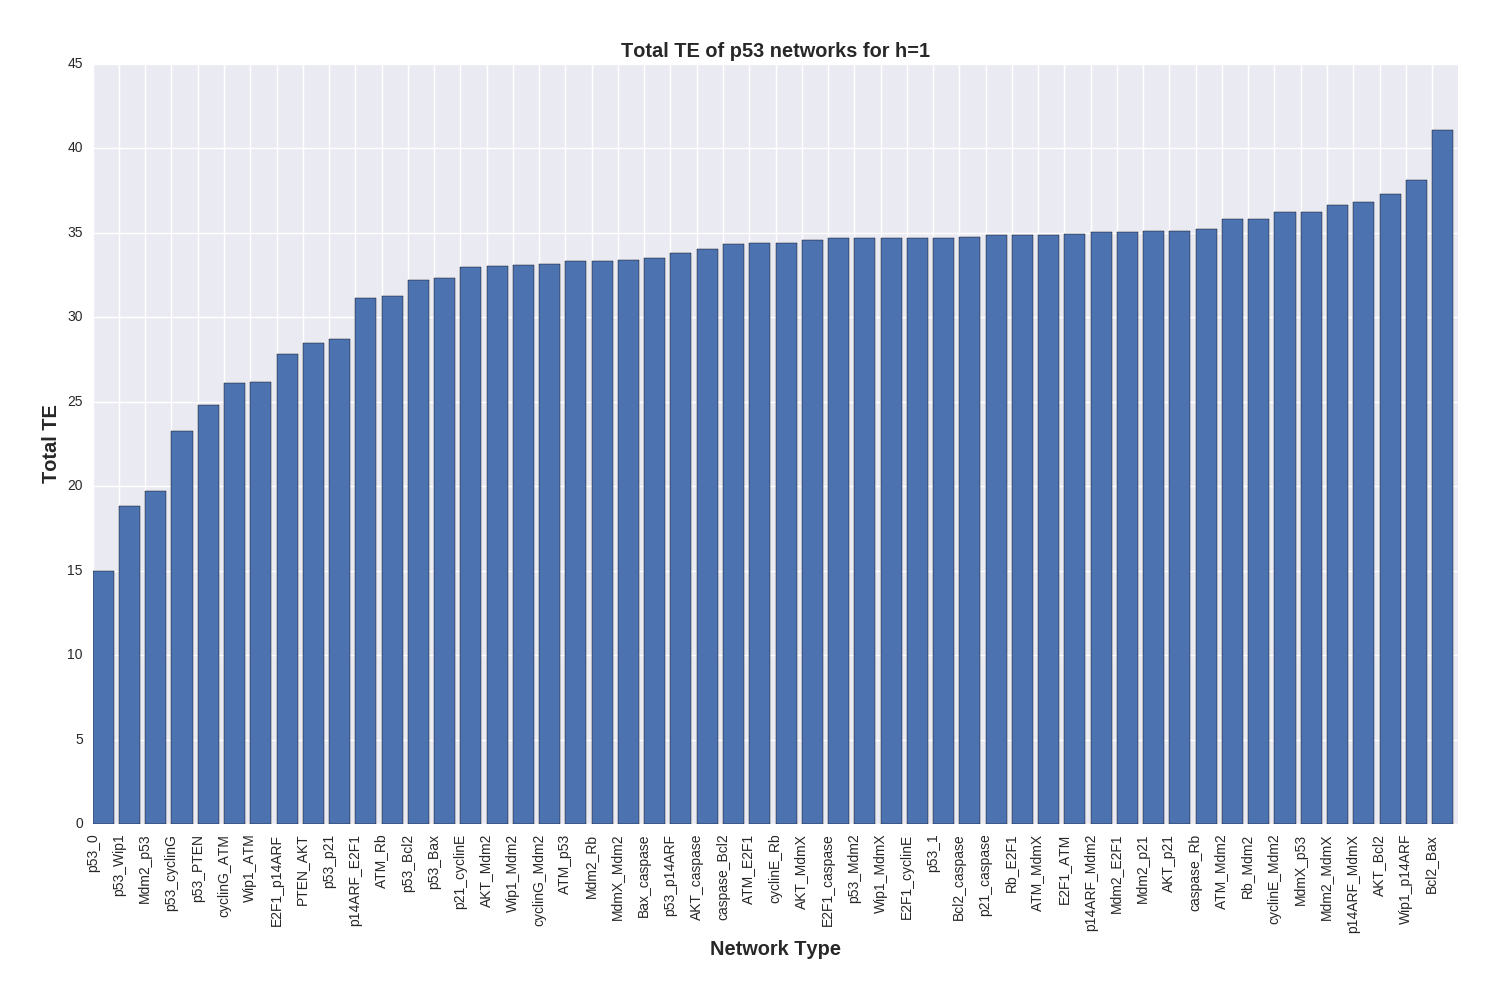
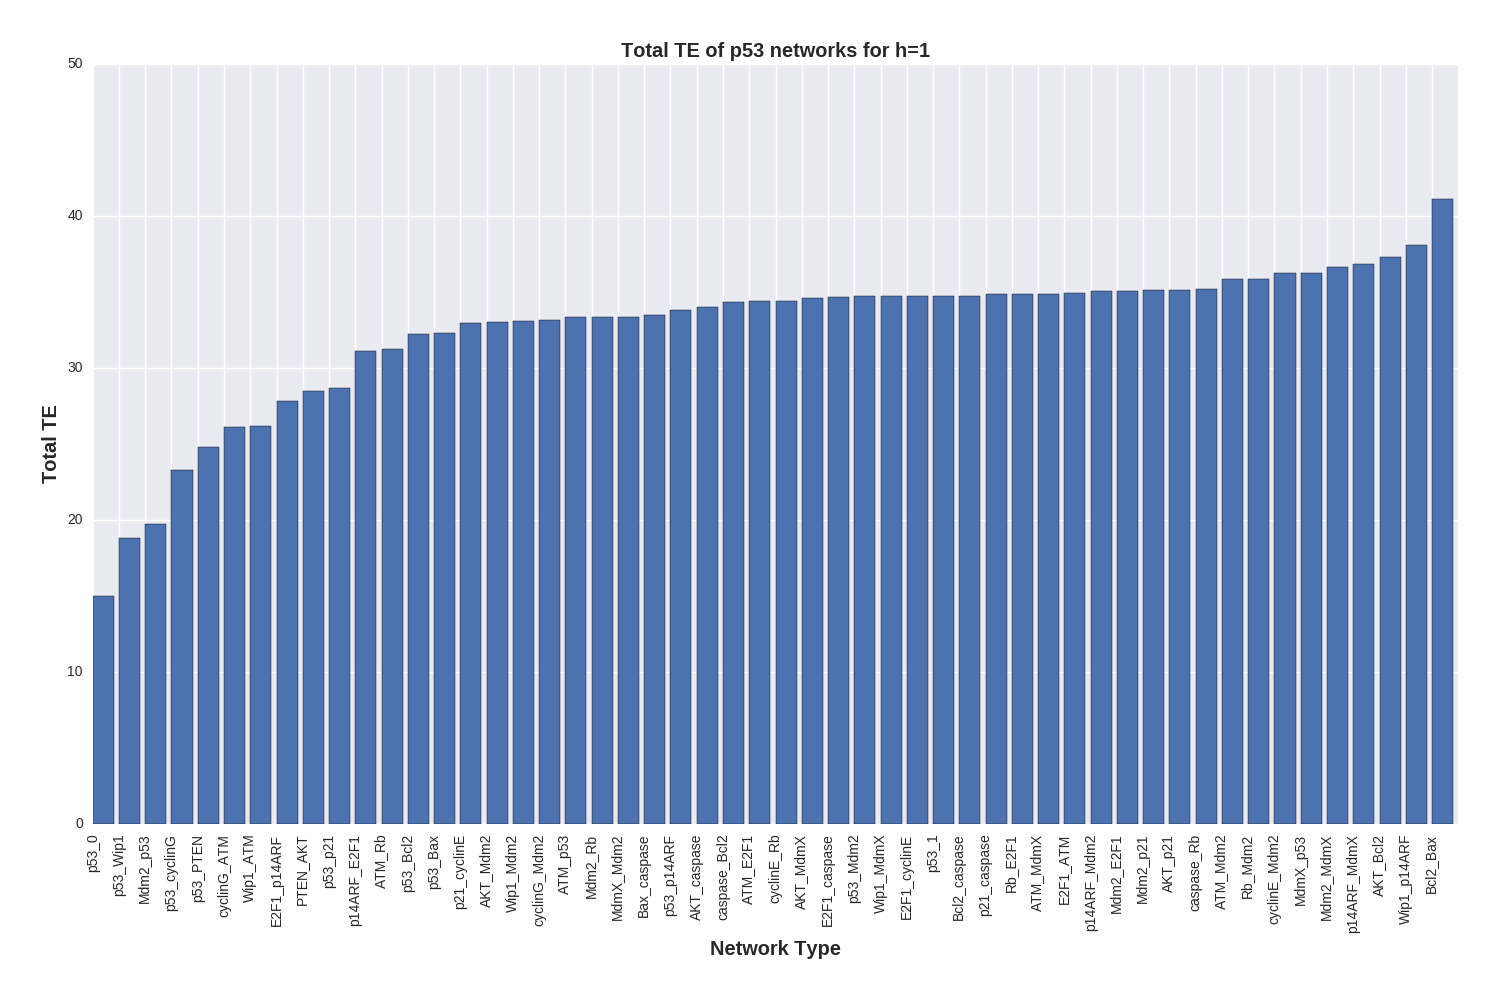
Added plots and changed axes to match each other.

Changed region(s): [[0.0613, 0.124, 0.9813, 0.62]]

diff --git a/results/plotte_total.py b/results/plotte_total.py
@@ -1,6 +1,7 @@
 import matplotlib.pyplot as plt
 #import seaborn as sns
 import numpy as np
+import sys
 
 def read_te_from_file(TE_FILE):
     te = []
@@ -14,33 +15,73 @@ def read_te_from_file(TE_FILE):
     te = sorted(te,reverse=True)
     return te
 
+def total_te(te):
+    total = sum(float(i) for i in te)
+    return total
 
-normal_all = read_te_from_file('te-all-step10-h1-p53_normal.dat')
-normal_total = sum(float(i) for i in normal_all)    
+def main(argv):
+    cmdargs = str(sys.argv)
+    h = int(sys.argv[1])
+     
+    normal_0 = read_te_from_file('te-all-step10-h%d-p53_0.dat'%(h))
+    normal_0_total = total_te(normal_0)
+    normal_1 = read_te_from_file('te-all-step10-h%d-p53_1.dat'%(h))
+    normal_1_total = total_te(normal_1)
 
-gr_total = np.zeros(100)
-lr_total = np.zeros(100)
+    gr_0_total = np.zeros(100)
+    gr_1_total = np.zeros(100)
+    lr_0_total = np.zeros(100)
+    lr_1_total = np.zeros(100)
 
-for i in range(100):
-    gr = read_te_from_file('random/global/te-all-step10-h1-p53-gr%03d.dat'%(i))
-    lr = read_te_from_file('random/local/te-all-step10-h1-p53-lr%03d.dat'%(i))
-    gr_total[i] = sum(float(j) for j in gr)
-    lr_total[i] = sum(float(j) for j in lr)
+    edge_list = ['Wip1_ATM', 'cyclinG_ATM', 'E2F1_ATM', 'ATM_p53', 'Mdm2_p53', 'MdmX_p53', 'AKT_Mdm2',  'p14ARF_Mdm2', 'ATM_Mdm2', 'cyclinE_Mdm2', 'cyclinG_Mdm2', 'MdmX_Mdm2', 'p53_Mdm2', 'Rb_Mdm2', 'Wip1_Mdm2', 'ATM_MdmX', 'AKT_MdmX', 'p14ARF_MdmX', 'Mdm2_MdmX', 'Wip1_MdmX', 'p53_Wip1', 'p53_cyclinG', 'p53_PTEN', 'AKT_p21', 'Mdm2_p21', 'p53_p21', 'PTEN_AKT', 'E2F1_cyclinE', 'p21_cyclinE', 'ATM_Rb', 'cyclinE_Rb', 'caspase_Rb', 'Mdm2_Rb', 'p14ARF_E2F1', 'ATM_E2F1', 'Mdm2_E2F1', 'Rb_E2F1',  'E2F1_p14ARF', 'p53_p14ARF', 'Wip1_p14ARF', 'AKT_Bcl2', 'caspase_Bcl2', 'p53_Bcl2', 'Bcl2_Bax', 'p53_Bax', 'AKT_caspase', 'Bax_caspase', 'Bcl2_caspase', 'E2F1_caspase', 'p21_caspase']
+    
+    node_list=['ATM','p53','Mdm2','MdmX','Wip1','cyclinG','PTEN','p21','AKT','cyclinE','Rb','E2F1','p14ARF','Bcl2','Bax','caspase']
 
+    edge_total = np.zeros(len(edge_list))
+    node_total = np.zeros(len(node_list))
+    
+    count = 0
+    for edge in edge_list:
+        edge_te = read_te_from_file('damaged/te-all-step10-h%d-p53_%s.dat'%(h,edge))
+        edge_total[count] = total_te(edge_te)
+        count += 1
+    
+    count = 0
+    for node in node_list:
+        node_te = read_te_from_file('damaged/te-all-step10-h%d-p53_%s.dat'%(h,node))
+        node_total[count] = total_te(node_te)
+        count += 1
+        
+    for i in range(100):
+        gr_0 = read_te_from_file('random/global_0/te-all-step10-h%d-p53_0-gr%03d.dat'%(h,i))
+        gr_1 = read_te_from_file('random/global_1/te-all-step10-h%d-p53_1-gr%03d.dat'%(h,i))
+        lr_0 = read_te_from_file('random/local_0/te-all-step10-h%d-p53_0-lr%03d.dat'%(h,i))
+        lr_1 = read_te_from_file('random/local_1/te-all-step10-h%d-p53_1-lr%03d.dat'%(h,i))
+        gr_0_total[i] = total_te(gr_0)
+        gr_1_total[i] = total_te(gr_1)
+        lr_0_total[i] = total_te(lr_0)
+        lr_1_total[i] = total_te(lr_1)
 
-data = [lr_total,gr_total,normal_total]
-flierprops = dict(marker='o', markerfacecolor='black', markersize=2,
+    data = [lr_0_total,lr_1_total,gr_0_total,gr_1_total,normal_0_total,normal_1_total,edge_total,node_total]
+    flierprops = dict(marker='o', markerfacecolor='black', markersize=2,
                   linestyle='none')
-meanpointprops = dict(marker='D', markeredgecolor='black',
+    meanpointprops = dict(marker='D', markeredgecolor='black',
                       markerfacecolor='firebrick')
-plt.boxplot(data,labels=['local','global','p53'],flierprops=flierprops,meanprops=meanpointprops,showmeans=True)
+                      
+    plt.figure(figsize=(15,10))            
+    plt.boxplot(data,labels=['local_0', 'local_1', 'global_0', 'global_1', 'p53_0', 'p53_1', 'edge_knockout', 'node_knockout'], flierprops=flierprops, meanprops=meanpointprops, showmeans=True)
 
-print np.mean(lr_total),min(lr_total),max(lr_total)
-print np.mean(gr_total),min(gr_total),max(gr_total)
+    #print np.mean(gr_0_total),min(gr_0_total),max(gr_0_total)
+    #print np.mean(gr_1_total),min(gr_1_total),max(gr_1_total)
+    #print np.mean(lr_0_total),min(lr_0_total),max(lr_0_total)
+    #print np.mean(lr_1_total),min(lr_1_total),max(lr_1_total)
+    plt.ylim(ymin=0,ymax=50)
+    plt.ylabel('Total TE',weight='bold',size='large')
+    plt.xlabel('Network Type',weight='bold',size='large')
+    plt.title('Total TE of networks for h=%d.'%(h), weight='bold', size='x-large')
+    plt.tight_layout(pad=2.5)
+    plt.savefig("TE_total_h%d.png"%(h))
+    plt.show()
 
-plt.ylabel('Total TE',weight='bold',size='large')
-plt.xlabel('Network Type',weight='bold',size='large')
-plt.title('Total TE of p53, local random, and global random networks.',weight='bold',size='large')
-plt.tight_layout()
-plt.savefig("TE_total.png")
-plt.show()
+if __name__=='__main__':
+    main(sys.argv[1:])

diff --git a/results/plotte_total_edge.py b/results/plotte_total_edge.py
@@ -43,6 +43,7 @@ def main(argv):
 
     plt.xticks(range(len(x)),x[idx],rotation='vertical')
     plt.xlim(xmin=0,xmax=len(x))
+    plt.ylim(ymin=0,ymax=50)
     plt.ylabel('Total TE',weight='bold',size='large')
     plt.xlabel('Network Type',weight='bold',size='large')
     plt.title('Total TE of p53 networks for h=%d'%(h),weight='bold',size='large')

diff --git a/results/plot_totalte.py b/results/plot_totalte.py
@@ -41,6 +41,7 @@ def main(argv):
     plt.bar(range(18),t_total[idx])
 
     plt.xticks(range(18),x[idx],rotation='vertical')
+    plt.ylim(ymin=0,ymax=50)
     plt.ylabel('Total TE',weight='bold',size='large')
     plt.xlabel('Network Type',weight='bold',size='large')
     plt.title('Total TE of p53 networks for h=%d'%(h),weight='bold',size='large')
